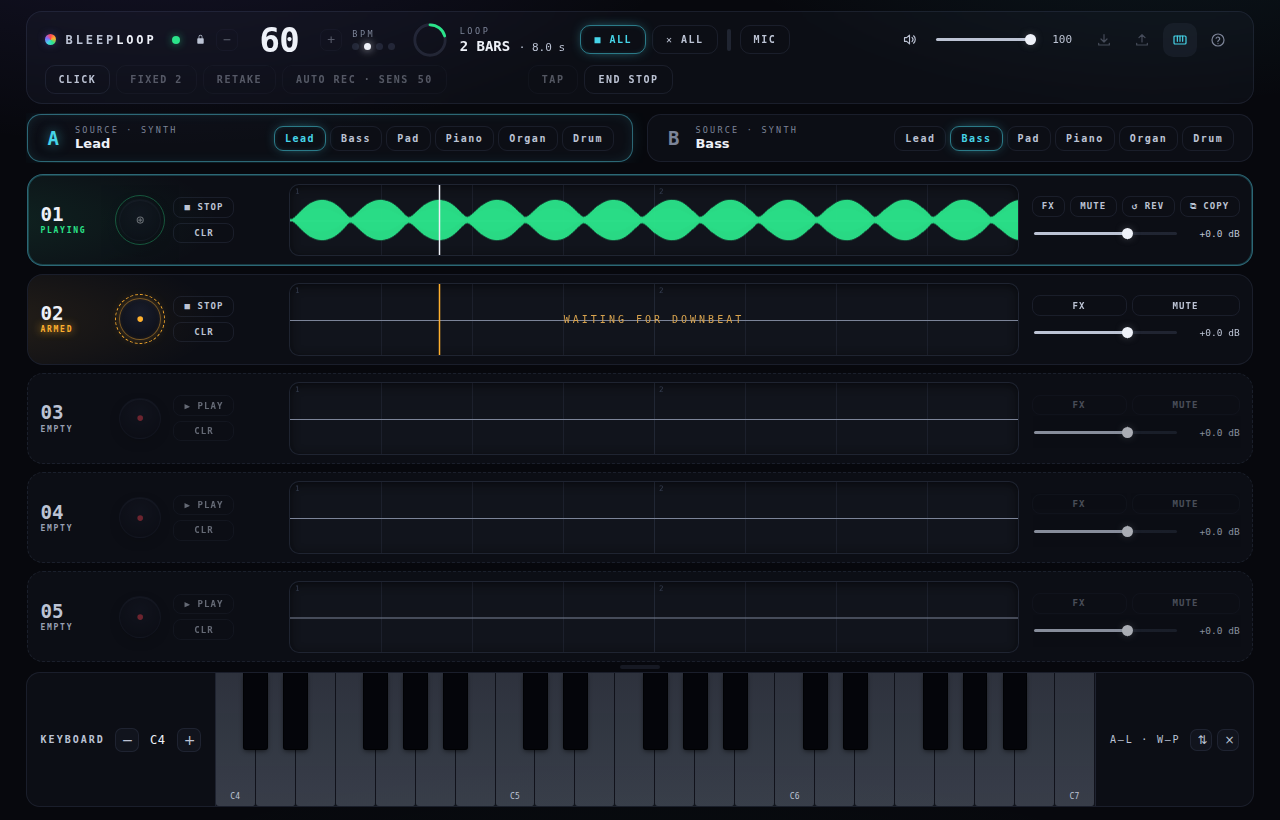
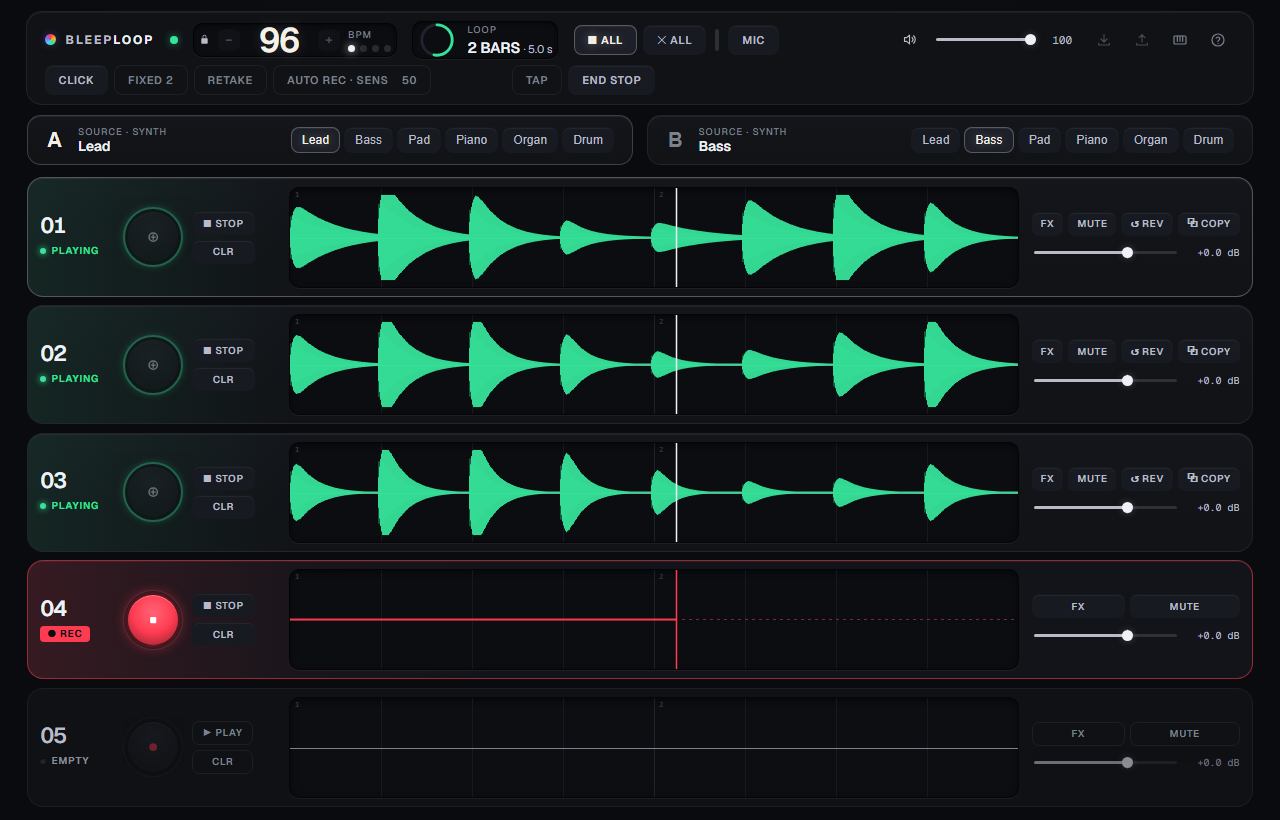
Audio Settings copy in one voice, live sample rate read-out, README hero in the new look
Hints are full sentences; standing explanations (the ASIO driver note, the plugin block) are quiet
grey, only deferred changes and faults stay amber. Device defaults read "System default", the
channel "Auto", the deferred-change notes name GO LIVE. The sample-rate row shows the context rate
read-only instead of "soon" (backlog line removed). The README hero is a fresh 1280x820 browser-tier
shot: three lanes playing, lane 4 recording, keyboard hidden.

diff --git a/src/ui/settings/AudioSettings.tsx b/src/ui/settings/AudioSettings.tsx
@@ -121,7 +121,7 @@ export function AudioSettings() {
           }}
           aria-label="Audio input device"
         >
-          <option value="">{usingAsio() ? asioDeviceInfo()?.name ?? 'Default ASIO driver' : 'default input'}</option>
+          <option value="">{usingAsio() ? asioDeviceInfo()?.name ?? 'Default ASIO driver' : 'System default'}</option>
           <For each={inputDevices()}>{(d) => <option value={d.id}>{d.name}</option>}</For>
         </select>
         <Show when={deviceChannels() >= 2}>
@@ -135,7 +135,7 @@ export function AudioSettings() {
             }}
             aria-label="Input channel"
           >
-            <option value="">auto</option>
+            <option value="">Auto</option>
             <For each={Array.from({ length: deviceChannels() }, (_, i) => i)}>
               {(i) => <option value={String(i)}>Ch {i + 1}</option>}
             </For>
@@ -143,7 +143,7 @@ export function AudioSettings() {
         </Show>
       </div>
       <Show when={anyInputArmed()}>
-        <div class="audio-settings__hint" role="note">change applies on next input arm</div>
+        <div class="audio-settings__hint" role="note">Takes effect on the next GO LIVE.</div>
       </Show>
 
       <div class="audio-settings__row">
@@ -159,15 +159,15 @@ export function AudioSettings() {
           }}
           aria-label="Monitor output device"
         >
-          <option value="">{usingAsio() ? asioDeviceInfo()?.name ?? 'Default ASIO driver' : 'default output'}</option>
+          <option value="">{usingAsio() ? asioDeviceInfo()?.name ?? 'Default ASIO driver' : 'System default'}</option>
           <For each={outputDevices()}>{(d) => <option value={d.id}>{d.name}</option>}</For>
         </select>
       </div>
       <Show when={anyMonitorArmed()}>
-        <div class="audio-settings__hint" role="note">change applies on next monitor arm</div>
+        <div class="audio-settings__hint" role="note">Takes effect on the next GO LIVE.</div>
       </Show>
       <Show when={usingAsio()}>
-        <div class="audio-settings__hint" role="note">ASIO uses this driver for input and output. Switch off ASIO to choose Windows devices.</div>
+        <div class="audio-settings__hint audio-settings__hint--info" role="note">ASIO drives both input and output. Turn ASIO off to pick Windows devices.</div>
       </Show>
 
       <div class="audio-settings__row">
@@ -188,7 +188,7 @@ export function AudioSettings() {
         </select>
         <span class="audio-settings__readout">{bufferMs(bufferFrames())}</span>
       </div>
-      <div class="audio-settings__hint" role="note">Plugin processing block. The audio driver chooses its own device buffer.</div>
+      <div class="audio-settings__hint audio-settings__hint--info" role="note">The block plugins process in. The audio driver sets its own device buffer.</div>
 
       {/* Record-alignment trim — the RELEASE-BUILD surface for the by-ear record-latency offset, which was
           previously reachable only from the DEV `__lf.recordLatency.setOffsetMs` debug hook (so a shipped
@@ -290,12 +290,14 @@ export function AudioSettings() {
           so the host is locked while anything is armed — preventing an input-ASIO / output-WASAPI split
           (or vice versa, which on a seizing driver would fail the second arm). Disarm to change it. */}
       <Show when={asioOffered() && (anyInputArmed() || anyMonitorArmed())}>
-        <div class="audio-settings__hint" role="note">disarm to switch audio backend</div>
+        <div class="audio-settings__hint" role="note">Take every slot off INPUT LIVE to switch between ASIO and WASAPI.</div>
       </Show>
 
-      <div class="audio-settings__row audio-settings__row--disabled" aria-disabled="true">
+      {/* Read-only: the AudioContext runs at the output device's rate; a rate selector is not built. */}
+      <div class="audio-settings__row" title="BleepLoop runs at the audio device's sample rate.">
         <span class="audio-settings__label">sample rate</span>
-        <span class="audio-settings__soon">soon</span>
+        <span class="audio-settings__readout">{(engine.ctx.sampleRate / 1000).toFixed(1)} kHz</span>
+        <span class="audio-settings__soon">set by the audio device</span>
       </div>
 
       {/* Diagnostics (relocated from the command bar in W2): the read-only host/isolated/plugin/midi

diff --git a/src/ui/settings/audio-settings.css b/src/ui/settings/audio-settings.css
@@ -126,14 +126,19 @@
   font-variant-numeric: tabular-nums;
 }
 
-/* Deferred-change hint: a device/channel swap only takes effect on the next arm while a slot is armed.
-   Amber note, mixed up to at least --dim brightness so it stays legible. */
+/* Deferred-change hint: a device/channel swap only takes effect on the next GO LIVE while a slot is
+   live. Amber note, mixed up to at least --dim brightness so it stays legible. */
 .audio-settings__hint {
   margin-top: -4px;
   padding-left: 83px;
   font-size: 10px;
   line-height: 1.4;
   color: color-mix(in srgb, var(--dub) 55%, var(--dim));
+}
+
+/* A standing explanation, not a deferred change or a fault: quiet grey instead of the amber note. */
+.audio-settings__hint--info {
+  color: var(--faint);
 }
 
 /* ASIO startup status line: the reason ASIO is not in use + the explicit RETRY action. Same amber
@@ -168,7 +173,7 @@
   box-shadow: inset 0 1px 2px rgba(0, 0, 0, 0.6);
 }
 
-/* a row that cannot act (sample rate "soon", ASIO unavailable) drops to the --faint legend: tone,
+/* a row that cannot act (ASIO unavailable) drops to the --faint legend: tone,
    never an opacity fade */
 .audio-settings__row--disabled .audio-settings__label,
 .audio-settings__row--disabled .audio-settings__soon {

diff --git a/docs/backlog-taste.md b/docs/backlog-taste.md
@@ -48,9 +48,6 @@ not here.
 - **Failed plugin bundles (2026-09-10):** a bundle whose scan child failed (timeout, crash, unparsable)
   is remembered as failed and simply missing from the picker; only the log says why. Show it greyed
   with the reason, or keep the picker clean and leave it to the log?
-- **Audio Settings "sample rate: soon" (2026-09-10):** reads as a placeholder in a product; show the
-  live context rate read-only until the C2 selector lands?
-
 - **Minimum window:** at 960 × 600 with the keyboard visible, lane controls are vertically clipped. Improve minimum-height layout while keeping the normal five-lane proportions.
 - **Non-hue state cues (2026-09-22, built, unseen):** toast severity glyph (⚠ error / ✓ done) in a
   16 px accent column beside the stripe; the system lamp's warn ring; the record meter's 1 px ring at
